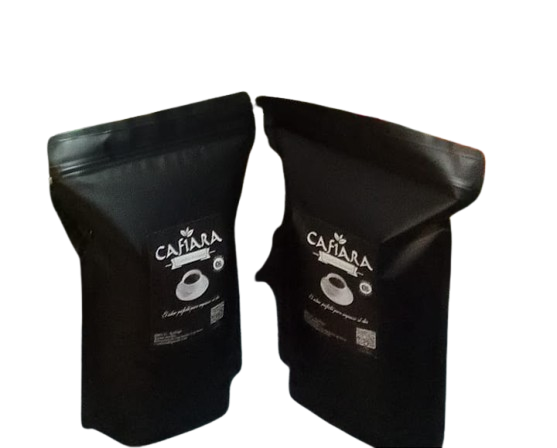
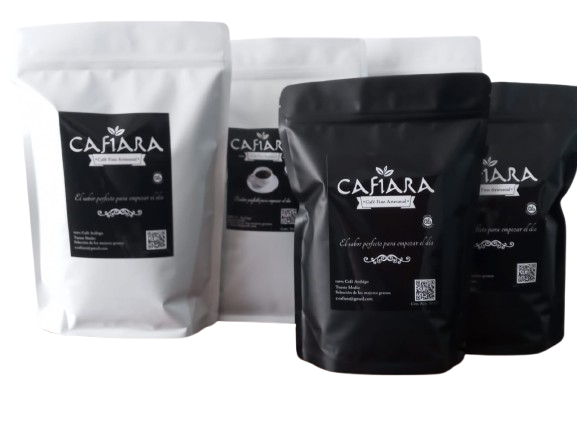
v2
se añaden imagenes v.2

diff --git a/index.html b/index.html
@@ -43,9 +43,10 @@
     <section id="carousel" class="carousel">
         <div class="carousel">
             <div class="carousel-images">
-                <img src="nosotros1.png" alt="Imagen 1">
-                <img src="nosotros1.png" alt="Imagen 2">
-                <img src="nosotros1.png" alt="Imagen 3">
+                <img src="car1.png" alt="Imagen 1">
+                <img src="car2.png" alt="Imagen 2">
+                <img src="car3.png" alt="Imagen 3">
+                <img src="car4.png" alt="Imagen 4">
             </div>
             <div class="carousel-buttons">
                 <button id="prev">&laquo;</button>
@@ -86,36 +87,36 @@
             <div class="product">
                 
                 <img src="uno.png" alt="Uno">
-                <p>$230.00</p>
+                <h3>$230.00</h3>
                 <p>Mayoreo</p>
                 <h3>Café premium americano 1 Kg.</h3>
                 <p>Grano o Molido</p>
             </div>
             <div class="product">
-                <img src="dos.jpg" alt="Dos">
-                <p>$120.00</p>
+                <img src="dos.png" alt="Dos">
+                <h3>$120.00</h3>
                 <p>Mayoreo</p>
                 
                 <h3>Café Premium americano 500 Gr.</h3>
                 <p>Grano o Molido</p>
             </div>
             <div class="product">
-                <img src="tres.jpg" alt="Tres">
-                <p>$75.00</p>
+                <img src="tres.png" alt="Tres">
+                <h3>$140.00</h3>
+                <p>Menudeo</p>
+                <h3>Bolsa de 454 grs.</h3>
+                <p>Grano o Molido</p>   
+            </div>
+            <div class="product">
+                <img src="cuatro.png" alt="Cuatro">
+                <h3>$75.00</h3>
                 <p>Menudeo</p>
                 <h3>Bolsa de 250 grs.</h3>
                 <p>Grano o Molido</p>
             </div>
             <div class="product">
-                <img src="cuatro.jpg" alt="Cuatro">
-                <p>$140.00</p>
-                <p>Menudeo</p>
-                <h3>Bolsa de 454 grs.</h3>
-                <p>Grano o Molido</p>
-            </div>
-            <div class="product">
-                <img src="cinco.jpg" alt="Cinco">
-                <p>$180.00 x kg.</p>
+                <img src="cinco.png" alt="Cinco">
+                <h3>$180.00 por kg.</h3>
                 <h3>Sacos a granel con capacidad de 20 Kg.</h3>
                 <p>Grano o Molido</p>
             </div>

diff --git a/styles.css b/styles.css
@@ -93,8 +93,9 @@ body {
     max-width: 800px;
     margin: 0 auto;
 
- /* carousel Section */   
 }
+
+ /* carousel Section */  
 .carousel {
     width: 50%;
     margin: 10px auto;
@@ -237,3 +238,17 @@ footer p {
     text-decoration: none;
     margin: 0 10px;
 }
+
+@media (max-width: 768px) {
+    body {
+      font-size: 16px;
+      padding: 10px;
+    }
+  
+   
+  
+    img {
+      max-width: 100%; /* Evita que las imágenes excedan el ancho de la pantalla */
+      height: auto;
+    }
+  }
